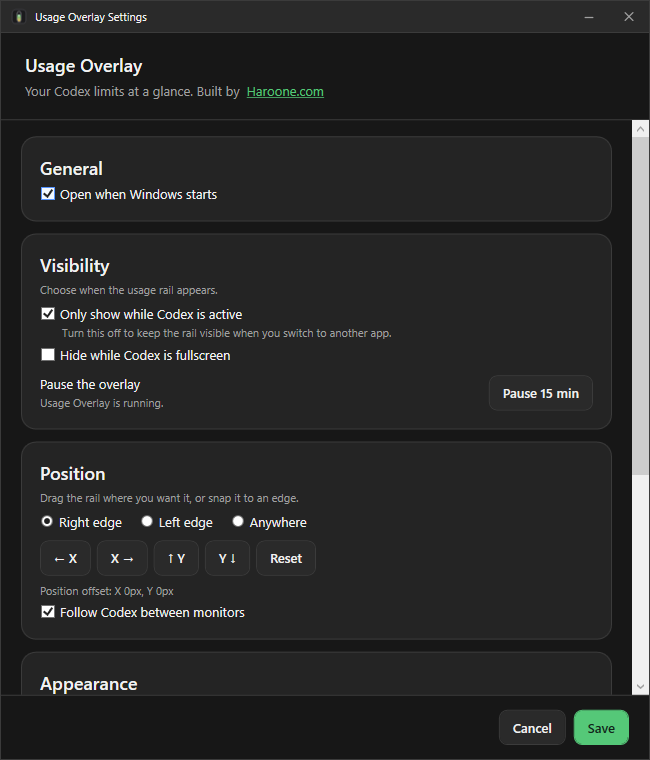
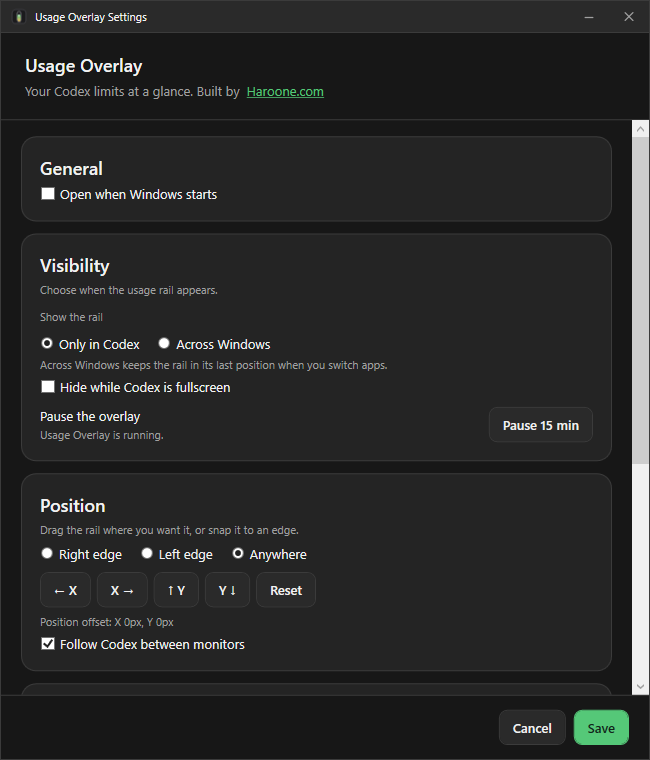
Make visibility scope explicit

diff --git a/src/UsageOverlay/SettingsWindow.xaml b/src/UsageOverlay/SettingsWindow.xaml
@@ -271,11 +271,20 @@
                                        Text="Choose when the usage rail appears."
                                        Foreground="{StaticResource OverlayMutedBrush}"
                                        FontSize="{StaticResource OverlayTextSmall}" />
-                            <CheckBox x:Name="ShowOnlyCodexCheckBox"
-                                      Content="Only show while Codex is active"
-                                      Style="{StaticResource SettingsCheckStyle}" />
-                            <TextBlock Margin="22,3,0,0"
-                                       Text="Turn this off to keep the rail visible when you switch to another app."
+                            <TextBlock Text="Show the rail" Style="{StaticResource FieldLabelStyle}" />
+                            <StackPanel Orientation="Horizontal">
+                                <RadioButton x:Name="CodexOnlyVisibilityRadio"
+                                             GroupName="VisibilityScope"
+                                             Content="Only in Codex"
+                                             Style="{StaticResource SettingsRadioStyle}" />
+                                <RadioButton x:Name="AcrossWindowsVisibilityRadio"
+                                             Margin="18,7,0,0"
+                                             GroupName="VisibilityScope"
+                                             Content="Across Windows"
+                                             Style="{StaticResource SettingsRadioStyle}" />
+                            </StackPanel>
+                            <TextBlock Margin="0,5,0,0"
+                                       Text="Across Windows keeps the rail in its last position when you switch apps."
                                        Foreground="{StaticResource OverlayMutedBrush}"
                                        FontSize="{StaticResource OverlayTextSmall}" />
                             <CheckBox x:Name="HideFullscreenCheckBox"

diff --git a/src/UsageOverlay/SettingsWindow.xaml.cs b/src/UsageOverlay/SettingsWindow.xaml.cs
@@ -51,7 +51,8 @@ public partial class SettingsWindow : Window
     {
         StartAutomaticallyCheckBox.IsChecked = _startAutomatically;
         StartAutomaticallyCheckBox.IsEnabled = _startupSupported;
-        ShowOnlyCodexCheckBox.IsChecked = _settings.ShowOnlyWhenCodexActive;
+        CodexOnlyVisibilityRadio.IsChecked = _settings.ShowOnlyWhenCodexActive;
+        AcrossWindowsVisibilityRadio.IsChecked = !_settings.ShowOnlyWhenCodexActive;
         FollowMonitorsCheckBox.IsChecked = _settings.FollowCodexAcrossMonitors;
         HideFullscreenCheckBox.IsChecked = _settings.HideInFullscreen;
         AnimationsCheckBox.IsChecked = _settings.AnimationsEnabled;
@@ -175,7 +176,7 @@ public partial class SettingsWindow : Window
             HorizontalOffset = _pendingHorizontalOffset,
             VerticalOffset = _pendingVerticalOffset,
             HideInFullscreen = HideFullscreenCheckBox.IsChecked == true,
-            ShowOnlyWhenCodexActive = ShowOnlyCodexCheckBox.IsChecked == true,
+            ShowOnlyWhenCodexActive = CodexOnlyVisibilityRadio.IsChecked == true,
             FollowCodexAcrossMonitors = FollowMonitorsCheckBox.IsChecked == true,
             PrimaryDisplay = primaryDisplay,
             WarningThreshold = warningThreshold,

diff --git a/docs/testing.md b/docs/testing.md
@@ -59,6 +59,7 @@ Recommended visual states:
 | Automatic startup | Overlay starts without opening Settings |
 | Settings title bar | Minus hides Settings, Close closes Settings, and maximize is unavailable |
 | Visibility controls | Codex-only and fullscreen choices appear together near the top |
+| Visibility scope | Only in Codex and Across Windows map to the saved visibility setting |
 | Connection details | Technical fields are collapsed by default and can be expanded |
 | Settings initial scroll | General and Visibility are shown when the window opens |
 | Pause | Overlay hides for 15 minutes, then resumes automatically |

diff --git a/CHANGELOG.md b/CHANGELOG.md
@@ -30,6 +30,7 @@ The project follows [Semantic Versioning](https://semver.org/).
 - Made Windows Search launches open Settings while keeping automatic startup background-only
 - Added a dedicated Visibility section and collapsed connection diagnostics by default
 - Made Settings reliably open at the top instead of restoring a technical section near the bottom
+- Replaced the indirect visibility checkbox with explicit Only in Codex and Across Windows choices
 
 ### Fixed
 
